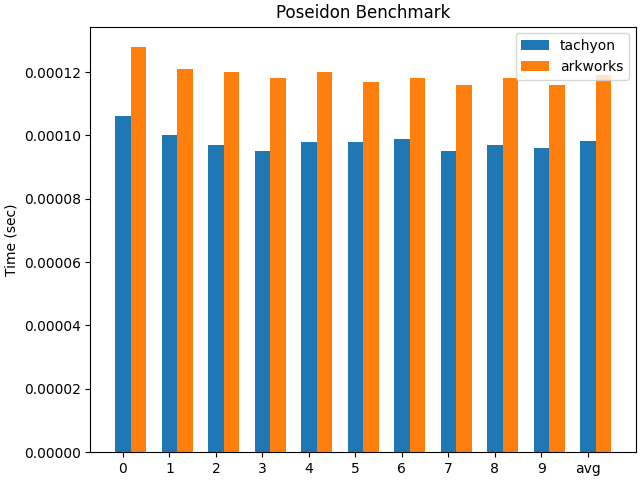
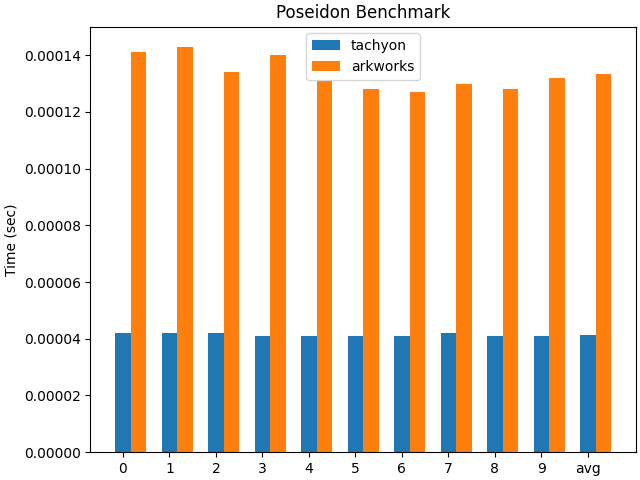
docs(benchmark): update benchmark result of `Poseidon`

diff --git a/benchmark/poseidon/README.md b/benchmark/poseidon/README.md
@@ -23,17 +23,17 @@ bazel run -c opt --//:has_openmp --//:has_rtti --//:has_matplotlib //benchmark/p
 
 | Repetition | Tachyon      | Arkworks  |
 | :--------: | ------------ | --------- |
-|     0      | **9.4e-05**  | 0.000123  |
-|     1      | **9.1e-05**  | 0.000119  |
-|     2      | **9.3e-05**  | 0.000117  |
-|     3      | **9.2e-05**  | 0.000117  |
-|     4      | **9.2e-05**  | 0.000117  |
-|     5      | **9.2e-05**  | 0.00012   |
-|     6      | **9.2e-05**  | 0.000118  |
-|     7      | **9.2e-05**  | 0.000118  |
-|     8      | **9.3e-05**  | 0.000117  |
-|     9      | **9.2e-05**  | 0.000116  |
-|    avg     | **9.23e-05** | 0.0001182 |
+|     0      | **3.5e-05**  | 0.000122  |
+|     1      | **3.5e-05**  | 0.00012   |
+|     2      | **3.6e-05**  | 0.000124  |
+|     3      | **3.6e-05**  | 0.000126  |
+|     4      | **3.4e-05**  | 0.000123  |
+|     5      | **3.4e-05**  | 0.00012   |
+|     6      | **3.4e-05**  | 0.00012   |
+|     7      | **3.3e-05**  | 0.000118  |
+|     8      | **3.4e-05**  | 0.000121  |
+|     9      | **3.3e-05**  | 0.00012   |
+|    avg     | **3.44e-05** | 0.0001214 |
 
 ![image](/benchmark/poseidon/poseidon_benchmark_ubuntu_i9.png)
 
@@ -41,16 +41,16 @@ bazel run -c opt --//:has_openmp --//:has_rtti --//:has_matplotlib //benchmark/p
 
 | Repetition | Tachyon      | Arkworks  |
 | :--------: | ------------ | --------- |
-|     0      | **0.000106** | 0.000128  |
-|     1      | **0.0001**   | 0.000121  |
-|     2      | **9.7e-05**  | 0.00012   |
-|     3      | **9.5e-05**  | 0.000118  |
-|     4      | **9.8e-05**  | 0.00012   |
-|     5      | **9.8e-05**  | 0.000117  |
-|     6      | **9.9e-05**  | 0.000118  |
-|     7      | **9.5e-05**  | 0.000116  |
-|     8      | **9.7e-05**  | 0.000118  |
-|     9      | **9.6e-05**  | 0.000116  |
-|    avg     | **9.81e-05** | 0.0001192 |
+|     0      | **4.2e-05**  | 0.000141  |
+|     1      | **4.2e-05**  | 0.000143  |
+|     2      | **4.2e-05**  | 0.000134  |
+|     3      | **4.1e-05**  | 0.00014   |
+|     4      | **4.1e-05**  | 0.000131  |
+|     5      | **4.1e-05**  | 0.000128  |
+|     6      | **4.1e-05**  | 0.000127  |
+|     7      | **4.2e-05**  | 0.00013   |
+|     8      | **4.1e-05**  | 0.000128  |
+|     9      | **4.1e-05**  | 0.000132  |
+|    avg     | **4.14e-05** | 0.0001334 |
 
 ![image](/benchmark/poseidon/poseidon_benchmark_mac_m3.png)
